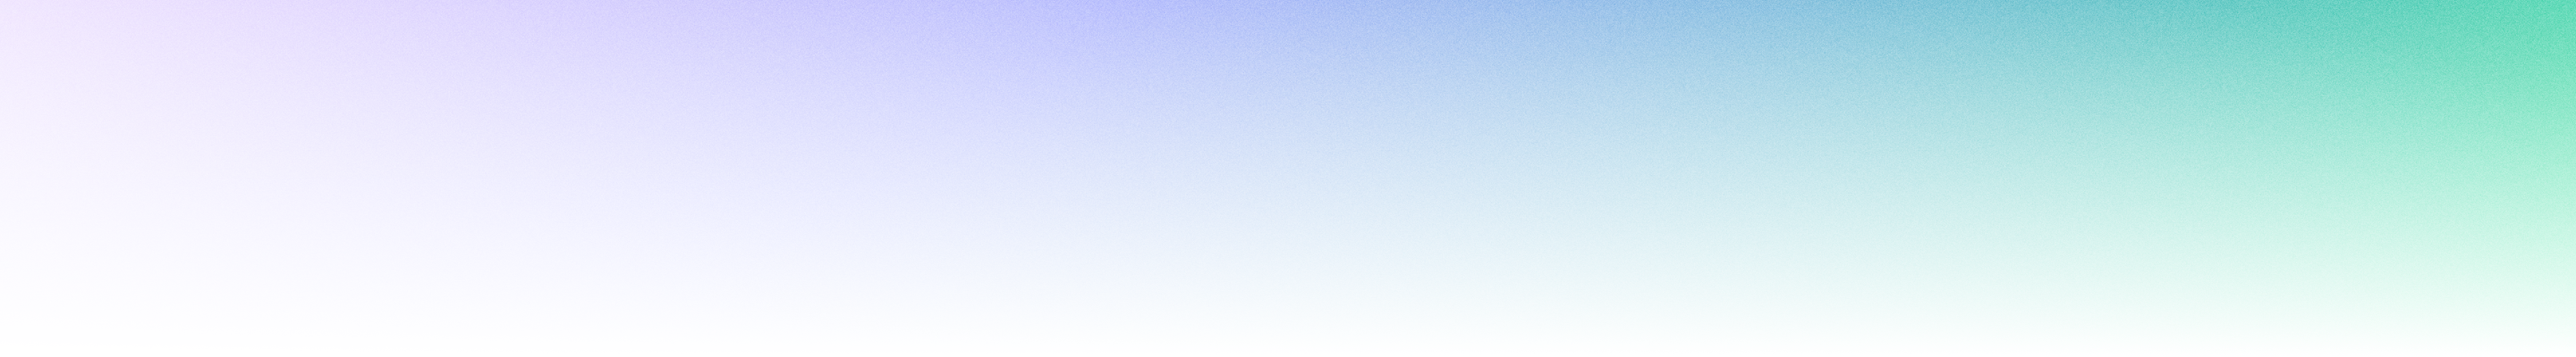
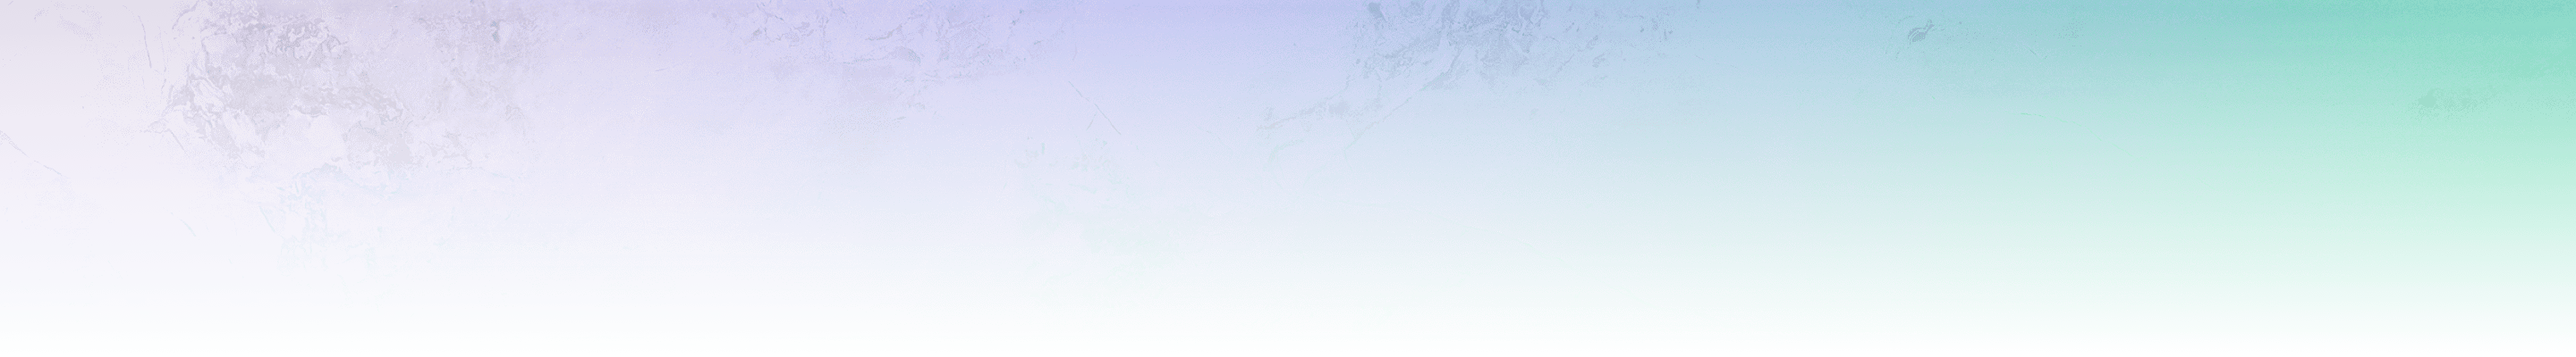
feat: updated the layout of the minting page

Changed region(s): [[0.5938, 0.0, 1.0, 0.48], [0.0625, 0.03, 0.2188, 0.36], [0.5312, 0.0, 0.5625, 0.03]]

diff --git a/src/components/products/minting/Minting.scss b/src/components/products/minting/Minting.scss
@@ -2,12 +2,15 @@
 @import "../../../assets/scss/variables";
 .minting-page {
   padding-bottom: 100px;
+  background-image: url("../../../assets/images/minting_page_bg.jpg");
+  background-position: center;
+  background-size: cover;
+  background-repeat: no-repeat;
   .select--title {
     background-image: url("../../../assets/images/mintingGradient.png");
     background-position: center;
     background-size: cover;
     background-repeat: no-repeat;
-    box-shadow: inset 0 -34px 50px 0px #ffffff;
     .container {
       margin: 0px auto !important;
       padding: 60px 0;
@@ -20,9 +23,10 @@
         font-style: normal;
         font-weight: 600;
         line-height: 45px;
+        color: rgba(0, 0, 0, 0.7);
       }
       > p {
-        color: #00000099;
+        color: rgba(0, 0, 0, 0.6);
         font-family: $spaceGroteskFont;
         font-size: 18px;
         font-style: normal;
@@ -34,6 +38,10 @@
   }
   .container {
     margin: 2px auto !important;
+    width: 730px;
+    @include md {
+      width: 100%;
+    }
   }
   .selecttype--section {
     display: grid;
@@ -45,35 +53,50 @@
     .nft-section {
       position: relative;
       z-index: 100;
-      &:hover {
-        .singlebox-shadow {
-          opacity: 1;
-        }
-      }
       .single-box {
-        border-radius: 12px;
-        border: 1px solid #0000001a;
+        background: rgba(255, 255, 255, 0.4);
+        box-shadow: 0px 8px 30px rgba(0, 0, 0, 0.1), inset 0px -1px 1px rgba(0, 0, 0, 0.2),
+          inset 0px 1px 0px rgba(255, 255, 255, 0.4);
+        border-radius: 10px;
         padding: 49px 0 53px 0;
         text-align: center;
-        background-color: $white;
-        cursor: pointer;
         min-height: 100%;
-        @include sm {
-          display: grid;
-          grid-template-columns: 72px 1fr;
-          grid-gap: 20px;
-          align-items: center;
-          justify-content: center;
-          padding: 30px;
-        }
+        transition: 0.3s ease-in-out;
+        cursor: pointer;
         &:hover {
-          background: linear-gradient(#ffffff, #ffffff) padding-box,
-            linear-gradient(135deg, #bceb00 15.57%, #00eaea 84.88%) border-box;
+          background: rgba(255, 255, 255, 0.6);
+          box-shadow: 0px 8px 30px rgba(0, 0, 0, 0.2), inset 0px -1px 1px rgba(0, 0, 0, 0.2),
+            inset 0px 1px 0px rgba(255, 255, 255, 0.4);
+
+          .image-section {
+            img.hide--on--hover {
+              opacity: 0;
+            }
+            img.show--on--hover {
+              opacity: 1;
+            }
+          }
         }
         .image-section {
+          position: relative;
+          width: 60px;
+          height: 60px;
+          margin: 0 auto;
+          img {
+            position: absolute;
+            top: 0;
+            left: 0;
+            transition: opacity 0.3s ease-in;
+          }
+          img.hide--on--hover {
+            opacity: 1;
+          }
+          img.show--on--hover {
+            opacity: 0;
+          }
         }
         .text-section {
-          max-width: 230px;
+          max-width: 234px;
           margin: 28px auto 0px;
           @include sm {
             margin: 0;
@@ -94,25 +117,21 @@
             font-style: normal;
             font-weight: 400;
             line-height: 22px;
-            color: #00000066;
             margin-top: 15px;
+            color: rgba(0, 0, 0, 0.6);
             @include sm {
               margin-top: 8px;
             }
           }
         }
-      }
-      .singlebox-shadow {
-        width: 100%;
-        height: 100%;
-        background: linear-gradient(135deg, #bceb00 15.57%, #00eaea 84.88%) border-box;
-        border-radius: 12px;
-        position: absolute;
-        top: 0;
-        right: 0;
-        filter: blur(3px);
-        opacity: 0;
-        z-index: -1;
+        @include sm {
+          display: grid;
+          grid-template-columns: 72px 1fr;
+          grid-gap: 20px;
+          align-items: center;
+          justify-content: center;
+          padding: 30px;
+        }
       }
     }
   }

diff --git a/src/components/products/minting/Minting.jsx b/src/components/products/minting/Minting.jsx
@@ -2,8 +2,10 @@ import React, { useEffect, useState } from 'react';
 import { useHistory } from 'react-router-dom';
 import Popup from 'reactjs-popup';
 import './Minting.scss';
-import singleIcon from '../../../assets/images/collectionicon.svg';
-import collectionIcon from '../../../assets/images/singleicon.svg';
+import singleIcon from '../../../assets/images/minting-create-nft.png';
+import singleIconHover from '../../../assets/images/minting-create-nft-hover.png';
+import collectionIcon from '../../../assets/images/minting-create-collection.png';
+import collectionIconHover from '../../../assets/images/minting-create-collection-hover.png';
 import { useThemeContext } from '../../../contexts/ThemeContext';
 import { useAuthContext } from '../../../contexts/AuthContext';
 import WrongNetworkPopup from '../../popups/WrongNetworkPopup';
@@ -54,7 +56,8 @@ const MintingPage = () => {
         <div className="nft-section">
           <div className="single-box" aria-hidden="true" onClick={() => singleBoxHandleClick()}>
             <div className="image-section">
-              <img src={singleIcon} alt="cover2" />
+              <img className="hide--on--hover" src={singleIcon} alt="cover2" />
+              <img className="show--on--hover" src={singleIconHover} alt="cover2" />
             </div>
             <div className="text-section">
               <h3>Create NFT</h3>
@@ -64,12 +67,12 @@ const MintingPage = () => {
               </p>
             </div>
           </div>
-          <div className="singlebox-shadow" />
         </div>
         <div className="nft-section">
           <div className="single-box" aria-hidden="true" onClick={() => collectionBoxHandleClick()}>
-            <div className="image-box">
-              <img src={collectionIcon} alt="cover" />
+            <div className="image-section">
+              <img className="hide--on--hover" src={collectionIcon} alt="cover" />
+              <img className="show--on--hover" src={collectionIconHover} alt="cover2" />
             </div>
             <div className="text-section">
               <h3>Create Collection</h3>
@@ -78,7 +81,6 @@ const MintingPage = () => {
               </p>
             </div>
           </div>
-          <div className="singlebox-shadow" />
         </div>
       </div>
       <Popup closeOnDocumentClick={false} open={showNotAuthenticatedPopup}>

diff --git a/src/assets/scss/normalize.scss b/src/assets/scss/normalize.scss
@@ -1,7 +1,7 @@
-@import '_fonts.scss';
-@import '_variables.scss';
-@import '_animations.scss';
-@import '_mixins.scss';
+@import "_fonts.scss";
+@import "_variables.scss";
+@import "_animations.scss";
+@import "_mixins.scss";
 
 html,
 body,
@@ -117,6 +117,10 @@ table {
   border-spacing: 0;
 }
 
+iframe {
+  display: none;
+}
+
 *,
 *:focus {
   outline: none !important;
@@ -185,7 +189,7 @@ select {
   border: 0;
 }
 
-input[type='text'] {
+input[type="text"] {
   -webkit-appearance: none;
   -moz-appearance: none;
   appearance: none;
@@ -262,7 +266,7 @@ html {
   transform-origin: 40px 40px;
 }
 .lds-roller div:after {
-  content: ' ';
+  content: " ";
   display: block;
   position: absolute;
   width: 7px;
